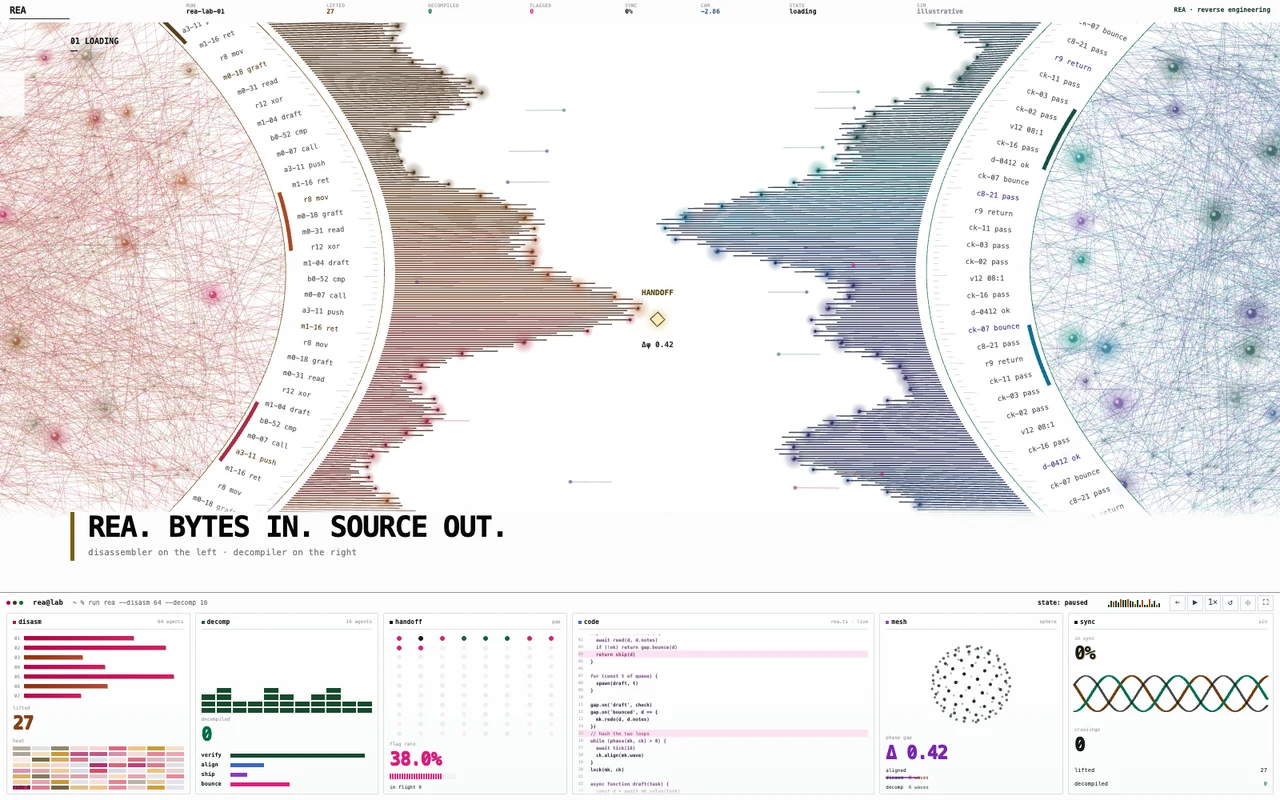
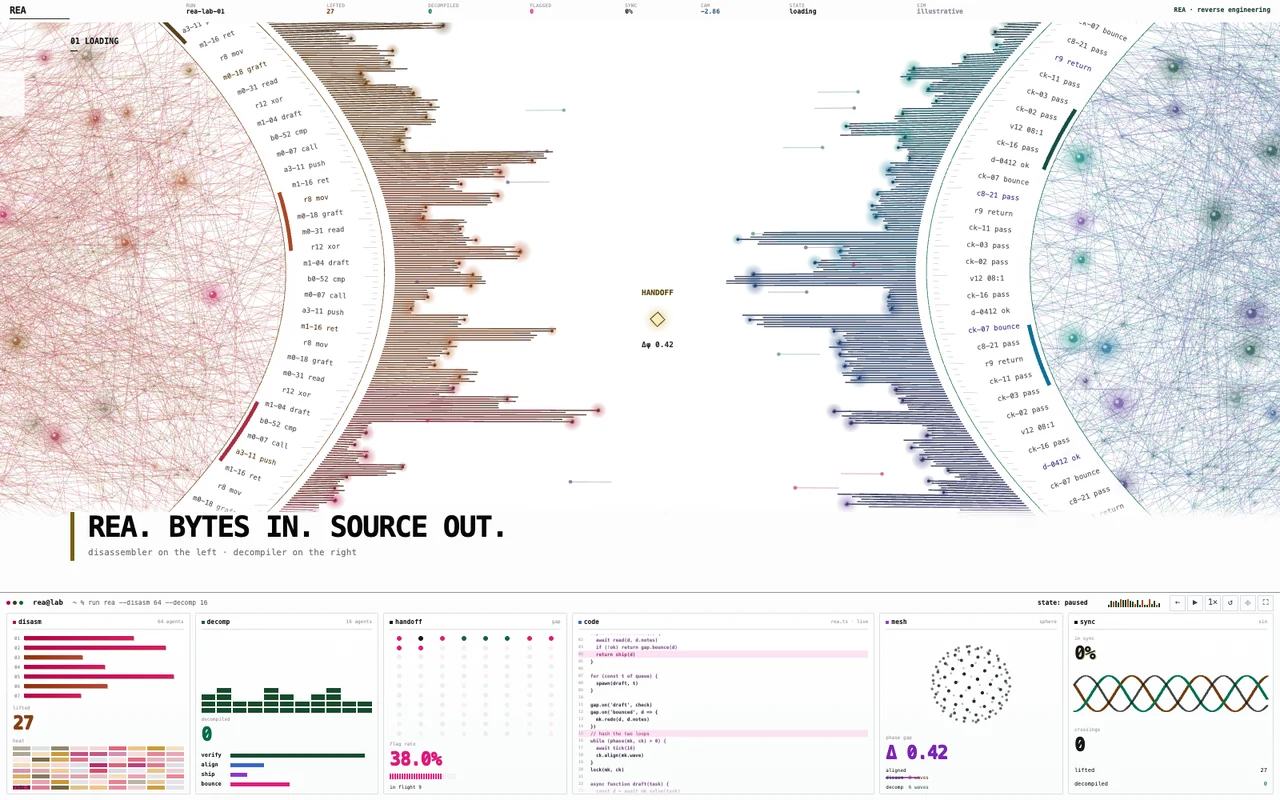
Make Rea spectra react like audio bands instead of traveling waves
Replace moving sine contours with fifty fixed frequency bands, rapid attacks, decaying peaks and shared beat accents. Keep stereo responses independent until synchronization and reuse the simulation clock for pause and playback speed.

Tested: Regression failed on previous wave model; ESLint, typecheck, build and 11 Rea browser tests passed; consecutive-frame visual comparison
Confidence: high
Scope-risk: narrow
Constraint: No audio input, new dependencies or additional animation loops

Changed region(s): [[0.5, 0.0, 0.8125, 0.6562], [0.2188, 0.0, 0.5, 0.6562]]

diff --git a/src/dashboards/rea-lab/engine.ts b/src/dashboards/rea-lab/engine.ts
@@ -4,6 +4,18 @@ const clamp = (value: number, min: number, max: number) => Math.max(min, Math.mi
 const noise = (seed: number) => { const value = Math.sin(seed * 127.1 + 311.7) * 43758.5453; return value - Math.floor(value); };
 const ease = (value: number) => { const t = clamp(value, 0, 1); return t * t * (3 - 2 * t); };
 const mix = (a: number, b: number, t: number) => a + (b - a) * t;
+// Fixed frequency bins with fast attack and slower release, never a traveling wave.
+function audioLevel(band: number, time: number, channel: number) {
+  const clock = time * 9 + noise(band * 19 + channel * 113) * .8;
+  const step = Math.floor(clock), fraction = clock - step;
+  const peak = (event: number) => .10 + Math.pow(noise(band * 29 + event * 17 + channel * 211), 1.5) * .55;
+  const attack = ease(fraction / .16);
+  const release = 1 - .68 * ease((fraction - .16) / .84);
+  const pulse = mix(peak(step - 1) * .32, peak(step), attack) * release;
+  const beatAge = (time + channel * .06) % .42;
+  const beat = Math.min(beatAge / .012, 1) * Math.exp(-beatAge * 16);
+  return clamp(.045 + pulse + beat * (.08 + .18 * noise(band * 7)), .06, .68);
+}
 const colors = [['#57401c', '#885218', '#a94725', '#b96b3d', '#a72e42', '#bb1551'], ['#164e45', '#007e77', '#116f94', '#284f8f', '#373377', '#6744a1']];
 const codes = [['m0-31 read', 'r12 xor', 'm1-04 draft', 'b0-52 cmp', 'm0-07 call', 'a3-11 push', 'm1-16 ret', 'r8 mov', 'm0-18 graft'], ['ck-11 pass', 'ck-03 pass', 'ck-02 pass', 'v12 08:1', 'ck-16 pass', 'd-0412 ok', 'ck-07 bounce', 'c8-21 pass', 'r9 return']];
 interface Point { x: number; y: number; scale: number; depth: number }
@@ -161,17 +173,21 @@ export function mountReaLab(canvas: HTMLCanvasElement, options: ReaOptions): Rea
   function spectrum(side: number, state: ReaSnapshot) {
     spectrumSamples[side]!.length = 0;
     const sign = side ? 1 : -1, count = 300, aligned = state.sync / 100;
-    const phase = time * 4.6 + side * (1 - aligned) * 1.7;
+    const levels = Array.from({ length: 50 }, (_, band) => {
+      const common = audioLevel(band, time, 0);
+      return side ? mix(audioLevel(band, time, 1), common, aligned) : common;
+    });
     const bars: { a: Point; b: Point; color: number; radius: number; tip: boolean }[] = [];
     for (let i = 0; i < count; i++) {
       const y = (i / (count - 1) - .5) * 3.12;
-      const envelope = Math.pow(Math.sin(i / (count - 1) * Math.PI), .5);
-      const wave = .25 + .20 * Math.sin(y * 5.2 + phase) + .12 * Math.sin(y * 12.6 - phase * .7) + .035 * Math.sin(i * 2.7 + Math.floor(time * 18) * .3);
-      const length = (.08 + Math.max(.03, wave) * envelope) * (1 + aligned * .28);
+      const envelope = .55 + .45 * Math.sqrt(Math.sin(i / (count - 1) * Math.PI));
+      const band = Math.floor(i / 6);
+      const detail = .88 + noise(i * 31) * .18;
+      const length = levels[band]! * envelope * detail;
       const a = project([bandX(side, y) - sign * .025, y, 0]);
       const b = project([bandX(side, y) - sign * length, y, Math.sin(i * .2) * .035]);
       if (i % 15 === 0) spectrumSamples[side]!.push(b.x);
-      bars.push({ a, b, color: Math.floor((Math.sin(y * 2.2 + phase * .2) * .5 + .5) * 5), radius: (9 + noise(i * 7) * 13) * b.scale, tip: i % 5 === 0 });
+      bars.push({ a, b, color: Math.min(5, Math.floor(i / count * 6)), radius: (9 + noise(i * 7) * 13) * b.scale, tip: i % 5 === 0 });
     }
     ctx.strokeStyle = side ? '#162139' : '#3e2413'; ctx.globalAlpha = .82;
     ctx.lineWidth = Math.max(.85, .95 * project([0, 0, 0]).scale); ctx.beginPath();

diff --git a/tests/rea-lab.spec.ts b/tests/rea-lab.spec.ts
@@ -251,3 +251,31 @@ test('Central spectra visibly reshape within 120 milliseconds and freeze on paus
   expect(result.paused).toEqual(result.after);
   expect(result.phase).toBe('LOADING');
 });
+
+test('Audio-style spectrum bands attack and release independently instead of traveling as one wave', async ({ page }) => {
+  await page.setViewportSize({ width: 720, height: 900 });
+  await controlFrames(page);
+  await open(page);
+  const series = await page.evaluate(() => {
+    const c = window.reaLab!; c.restart(); c.setPaused(false);
+    const start = performance.now(); window.__stepRea!(start);
+    return Array.from({ length: 40 }, (_, i) => {
+      window.__stepRea!(start + i * 30);
+      return c.debug().spectrumTips;
+    });
+  });
+  let independent = 0, moving = 0;
+  for (let t = 1; t < series.length; t++) {
+    for (let side = 0; side < 2; side++) {
+      const shifts = series[t]![side]!.map((x, i) => x - series[t - 1]![side]![i]!);
+      for (let i = 2; i < shifts.length - 2; i++) {
+        if (Math.abs(shifts[i]!) > 1 && Math.abs(shifts[i + 1]!) > 1) {
+          moving++;
+          if (shifts[i]! * shifts[i + 1]! < 0) independent++;
+        }
+      }
+    }
+  }
+  expect(moving).toBeGreaterThan(300);
+  expect(independent / moving).toBeGreaterThan(.35);
+});

diff --git a/docs/rea-lab.md b/docs/rea-lab.md
@@ -14,7 +14,7 @@
 
 第七屏路由为 `/#/screens/rea-lab`，从作品索引中的 Rea Lab 卡片进入。沿用 Vue 3、TypeScript 与 Vite，不新增运行时依赖。真实 XYZ 坐标经过透视投影形成双侧网络，状态与监测面板共享模拟时钟。
 
-全景按场景高度覆盖取景，让扇形上下截断边缘位于画面之外；频谱主波约每 1.4 秒完成一轮，细部以每秒 18 次的节奏刷新，仍跟随暂停和倍速。
+全景按场景高度覆盖取景，让扇形上下截断边缘位于画面之外；中间频谱使用 50 个固定频段，每个频段以约 18 毫秒快速起音、约 90 毫秒回落，并叠加约 0.42 秒一次的共同节拍。各频段独立跳动，完成同步后左右频段一致；全部随暂停和倍速控制，属于模拟音乐频谱，不采集麦克风或播放音频。
 
 拖动或使用方向键调整视角，滚轮缩放。工具栏提供暂停、倍速、重播、重置视角、全屏与返回索引。减少动态效果偏好默认暂停；暂停时允许调整相机而不推进处理阶段。离开页面会取消绘制循环并移除事件和尺寸观察器。
 
